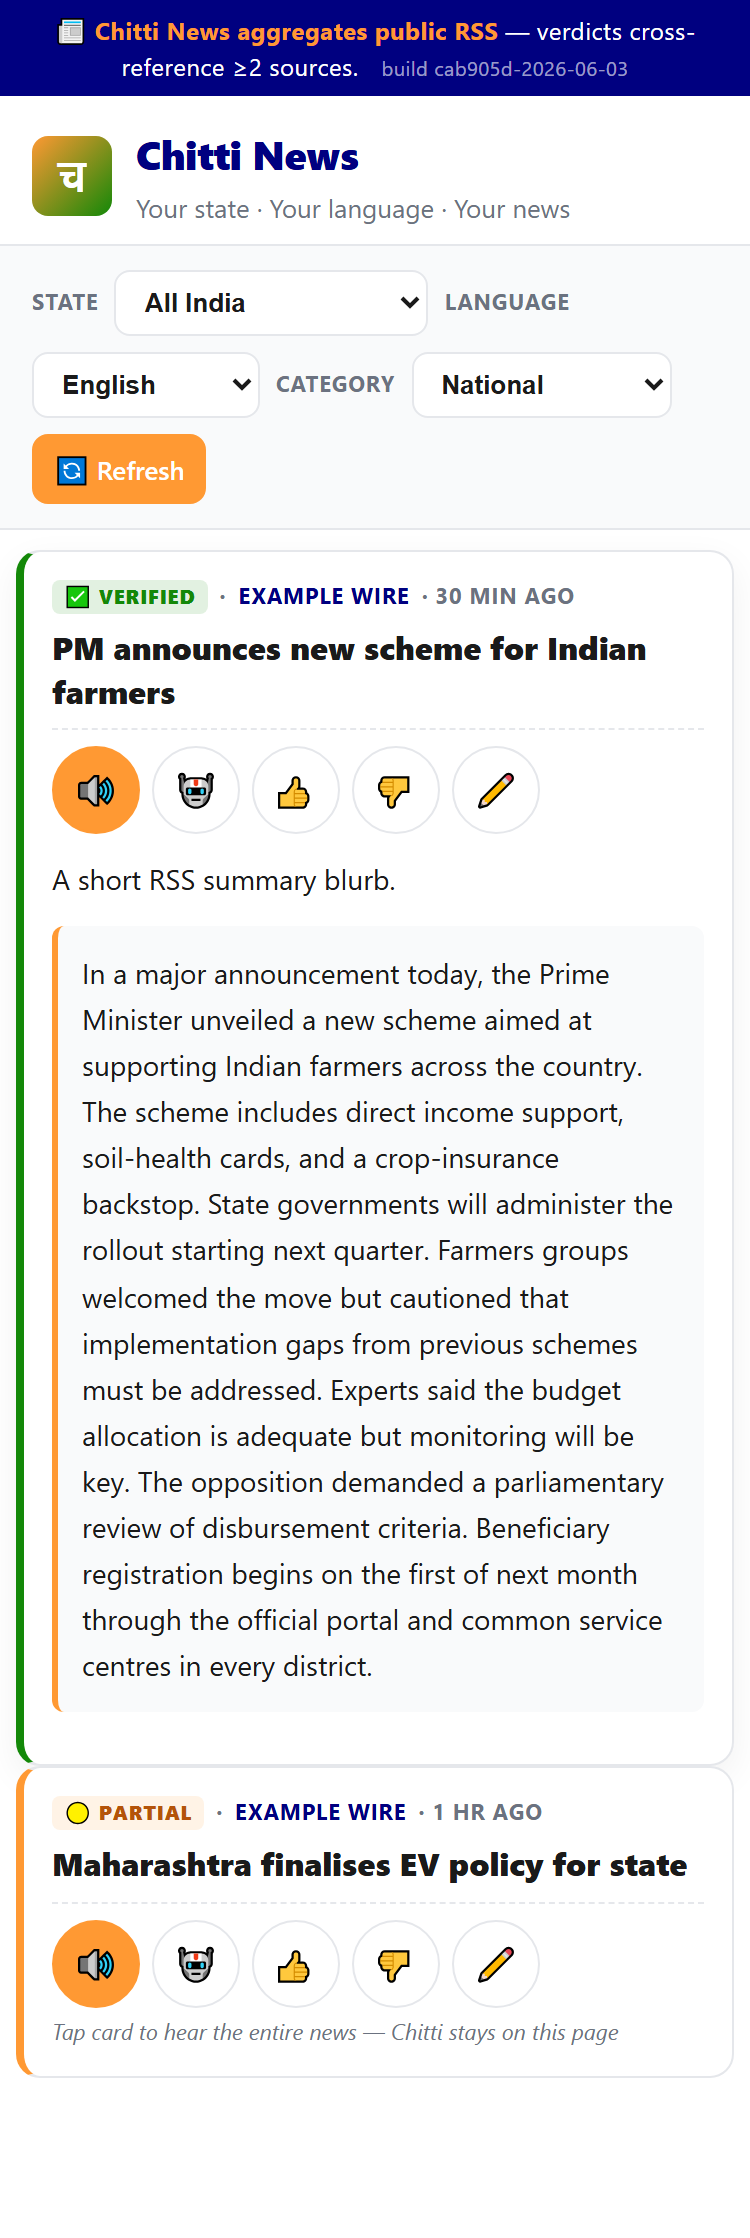
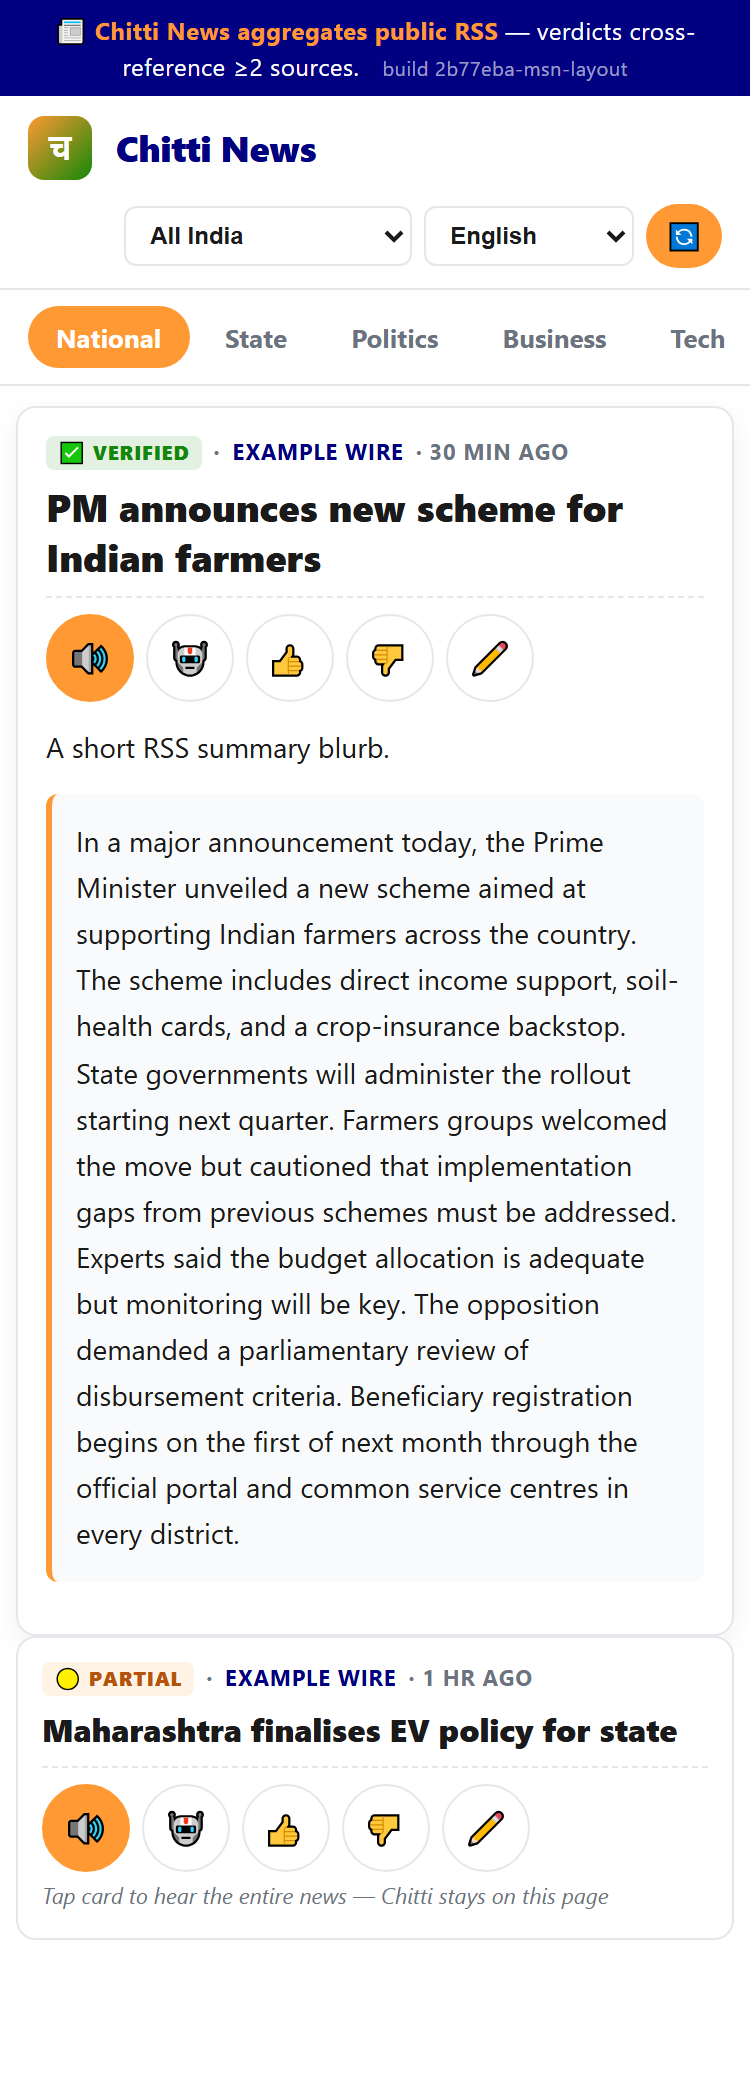
refactor(chitti-news): MSN-style layout — featured hero + tab strip + compact cards
Sire 2026-06-03: "use the structure of msn news for overall Chitti
news, dont make me repeat".

Layout changes:

(1) Sticky header collapsed to one line — brand mark + "Chitti News"
    + state/lang dropdowns + refresh button. Filter row removed; the
    two dropdowns moved inline into the header so vertical space
    above the feed is minimal (same as MSN's compact locale picker).

(2) Horizontal scrollable category tab strip below the header. Replaces
    the 10-option category <select> with one-tap pill tabs (National,
    State, Politics, Business, Tech, Sports, Entertainment, For You,
    Read Later, Cancelled). Active tab fills with saffron; inactives
    are flat text. Tabs are stickied below the header so they stay
    visible while scrolling the feed.
    The <select id="pick-cat"> is kept hidden — it remains the canonical
    state for the picker layer (so onFilterChange + LANG_SWITCH_FIRES
    cert gate + localStorage path all work unchanged). Tab clicks
    mutate sel.value + dispatch a 'change' event, going through the
    same capture-phase listener that fixed the language-switch bug.

(3) Featured first card (MSN hero):
    .art-card.featured uses single-column grid, full-width image at
    top (200px tall), bigger headline (19px), then meta + strip + body.
    .renderFeed now passes (item, i === 0) so the first item renders
    as featured.

(4) Compact regular cards:
    Removed the saffron left-border accent. Smaller padding (12px),
[…]

diff --git a/chitti_news.html b/chitti_news.html
@@ -15,7 +15,7 @@
   <meta http-equiv="Cache-Control" content="no-store, no-cache, must-revalidate" />
   <meta http-equiv="Pragma" content="no-cache" />
   <meta http-equiv="Expires" content="0" />
-  <meta name="chitti-build" content="cab905d-2026-06-03" />
+  <meta name="chitti-build" content="2b77eba-msn-layout" />
 
   <!--
     Clean rebuild 2026-06-02 per Sire's instruction "follow CTO.md,
@@ -75,60 +75,88 @@
     }
     .legal-bar strong { color: var(--saffron); }
 
-    /* ── Header ──────────────────────────────────────────────────── */
-    header { padding: 14px 16px 8px; border-bottom: 1px solid var(--rule); background: var(--canvas); }
-    .brand-row { display: flex; align-items: center; gap: 12px; flex-wrap: wrap; }
+    /* ── Header (slim, MSN-style) ────────────────────────────────── */
+    header {
+      padding: 10px 14px; border-bottom: 1px solid var(--rule);
+      background: var(--canvas); display: flex; align-items: center;
+      gap: 12px; flex-wrap: wrap;
+      position: sticky; top: 28px; z-index: 110;
+    }
     .brand-mark {
-      width: 40px; height: 40px; border-radius: 8px;
+      width: 32px; height: 32px; border-radius: 8px;
       background: linear-gradient(135deg, var(--saffron), var(--green));
-      color: #fff; font-weight: 800; font-size: 20px;
+      color: #fff; font-weight: 800; font-size: 16px;
       display: flex; align-items: center; justify-content: center;
+      flex-shrink: 0;
     }
-    .brand-name { font-weight: 800; font-size: 20px; color: var(--navy); letter-spacing: -.01em; }
-    .brand-tag  { color: var(--muted); font-size: 13px; margin-top: 2px; }
-
-    /* ── §5 ONE language selector + state/category filters ──────── */
-    .filter-row {
-      display: flex; gap: 8px; flex-wrap: wrap; align-items: center;
-      padding: 12px 16px; border-bottom: 1px solid var(--rule);
-      background: var(--surface);
-      position: sticky; top: 28px; z-index: 100;
-    }
-    .filter-row label {
-      font-size: 11px; color: var(--muted); font-weight: 700;
-      text-transform: uppercase; letter-spacing: .04em;
-    }
-    .filter-row select, .filter-row button {
-      padding: 7px 10px; border: 1px solid var(--rule); border-radius: 8px;
+    .brand-name { font-weight: 800; font-size: 18px; color: var(--navy); letter-spacing: -.01em; }
+    header .filter-mini { display: flex; gap: 6px; margin-left: auto; align-items: center; }
+    header .filter-mini select {
+      padding: 6px 8px; border: 1px solid var(--rule); border-radius: 6px;
       background: var(--canvas); color: var(--text); font-weight: 600;
+      cursor: pointer; font-size: 12px;
+    }
+    header .refresh-btn {
+      padding: 6px 10px; border-radius: 999px; border: 0;
+      background: var(--saffron); color: #fff; font-weight: 700;
       cursor: pointer; font-size: 13px;
     }
-    .filter-row .refresh-btn {
-      background: var(--saffron); color: #fff; border-color: var(--saffron);
+    header .refresh-btn:hover { filter: brightness(.95); }
+
+    /* ── MSN-style sticky category tab strip ───────────────────── */
+    .cat-tabs {
+      position: sticky; top: 80px; z-index: 100;
+      background: var(--canvas); border-bottom: 1px solid var(--rule);
+      padding: 8px 14px;
+      display: flex; gap: 4px; overflow-x: auto; scrollbar-width: thin;
+      -webkit-overflow-scrolling: touch;
     }
-    .filter-row .refresh-btn:hover { filter: brightness(.95); }
+    .cat-tabs::-webkit-scrollbar { height: 4px; }
+    .cat-tabs::-webkit-scrollbar-thumb { background: var(--rule); border-radius: 2px; }
+    .cat-tab {
+      padding: 6px 14px; border: 0; border-radius: 999px;
+      background: transparent; color: var(--muted); font-size: 13px;
+      font-weight: 700; cursor: pointer; white-space: nowrap;
+      transition: background .15s, color .15s;
+    }
+    .cat-tab:hover { color: var(--navy); }
+    .cat-tab.active { background: var(--saffron); color: #fff; }
 
     /* ── Main feed ───────────────────────────────────────────────── */
     main {
       max-width: 720px; margin: 0 auto;
-      padding: 16px 12px 80px;
-      display: flex; flex-direction: column; gap: 14px;
+      padding: 14px 12px 80px;
+      display: flex; flex-direction: column; gap: 12px;
     }
     .status-card {
-      padding: 16px; border: 1px solid var(--rule); border-radius: 12px;
-      background: var(--surface); color: var(--text); text-align: center;
+      padding: 20px 16px; border: 1px solid var(--rule); border-radius: 12px;
+      background: var(--canvas); color: var(--text); text-align: left;
     }
 
-    /* ── Article card — collapsed by default ────────────────────── */
+    /* ── Article card (compact / MSN-style) ───────────────────── */
     .art-card {
       background: var(--canvas);
-      border: 1px solid var(--rule); border-left: 4px solid var(--saffron);
-      border-radius: 12px; padding: 14px;
-      display: grid; grid-template-columns: 1fr 90px; gap: 12px;
-      cursor: pointer; transition: box-shadow .2s, border-color .2s;
+      border: 1px solid var(--rule);
+      border-radius: 10px; padding: 12px;
+      display: grid; grid-template-columns: 1fr 96px; gap: 12px;
+      cursor: pointer; transition: box-shadow .2s;
     }
-    .art-card:hover { box-shadow: 0 6px 18px rgba(0,0,0,.06); }
-    .art-card.expanded { cursor: default; border-left-color: var(--green); }
+    .art-card:hover { box-shadow: 0 4px 14px rgba(0,0,0,.06); }
+    .art-card.expanded { cursor: default; }
+
+    /* ── Article card — FEATURED (first card, MSN hero) ───────── */
+    .art-card.featured {
+      grid-template-columns: 1fr; padding: 0;
+      border: 1px solid var(--rule); overflow: hidden;
+    }
+    .art-card.featured .art-thumb {
+      width: 100%; min-height: 200px; border: 0; border-radius: 0;
+      grid-column: 1 / -1; order: -1; margin: 0;
+    }
+    .art-card.featured .art-thumb.placeholder { min-height: 160px; }
+    .art-card.featured > div { padding: 14px; }
+    .art-card.featured .art-title { font-size: 19px; line-height: 1.3; }
+    .art-card.featured .art-meta { font-size: 11px; }
     .art-meta {
       font-size: 11px; color: var(--muted); font-weight: 700;
       text-transform: uppercase; letter-spacing: .04em;
@@ -277,66 +305,69 @@
 </script>
 
 <header>
-  <div class="brand-row">
-    <div class="brand-mark" aria-hidden="true">च</div>
-    <div style="flex:1; min-width: 140px;">
-      <div class="brand-name">Chitti News</div>
-      <div class="brand-tag" id="brand-tag">Your state · Your language · Your news</div>
-    </div>
+  <div class="brand-mark" aria-hidden="true">च</div>
+  <div class="brand-name">Chitti News</div>
+  <div class="filter-mini" role="group" aria-label="State and language">
+    <select id="pick-state" data-chitti-news-picker aria-label="State">
+      <option value="india">All India</option>
+      <option value="ap">Andhra Pradesh</option><option value="as">Assam</option>
+      <option value="br">Bihar</option><option value="cg">Chhattisgarh</option>
+      <option value="gj">Gujarat</option><option value="hr">Haryana</option>
+      <option value="hp">Himachal Pradesh</option><option value="jk">Jammu &amp; Kashmir</option>
+      <option value="ka">Karnataka</option><option value="kl">Kerala</option>
+      <option value="mp">Madhya Pradesh</option><option value="mh">Maharashtra</option>
+      <option value="mn">Manipur</option><option value="mg">Meghalaya</option>
+      <option value="ng">Nagaland</option><option value="or">Odisha</option>
+      <option value="pb">Punjab</option><option value="rj">Rajasthan</option>
+      <option value="tn">Tamil Nadu</option><option value="telangana">Telangana</option>
+      <option value="up">Uttar Pradesh</option><option value="wb">West Bengal</option>
+      <option value="northeast">Northeast</option>
+    </select>
+    <select id="pick-lang" data-chitti-news-picker aria-label="Language">
+      <option value="en">English</option>
+      <option value="hi">हिन्दी</option>
+      <option value="mr">मराठी</option>
+      <option value="ta">தமிழ்</option>
+      <option value="te">తెలుగు</option>
+      <option value="bn">বাংলা</option>
+      <option value="kn">ಕನ್ನಡ</option>
+      <option value="ml">മലയാളം</option>
+      <option value="gu">ગુજરાતી</option>
+      <option value="pa">ਪੰਜਾਬੀ</option>
+      <option value="or">ଓଡ଼ିଆ</option>
+      <option value="ur">اردو</option>
+    </select>
+    <button class="refresh-btn" type="button" onclick="loadFeed(true)" aria-label="Refresh news feed">🔄</button>
   </div>
 </header>
 
-<!-- §5 LOCKED: ONE language selector per page, alongside state + category filters -->
-<div class="filter-row" role="group" aria-label="Filter feed by state, language and category">
-  <label for="pick-state">State</label>
-  <select id="pick-state" data-chitti-news-picker aria-label="State">
-    <option value="india">All India</option>
-    <option value="ap">Andhra Pradesh</option><option value="as">Assam</option>
-    <option value="br">Bihar</option><option value="cg">Chhattisgarh</option>
-    <option value="gj">Gujarat</option><option value="hr">Haryana</option>
-    <option value="hp">Himachal Pradesh</option><option value="jk">Jammu &amp; Kashmir</option>
-    <option value="ka">Karnataka</option><option value="kl">Kerala</option>
-    <option value="mp">Madhya Pradesh</option><option value="mh">Maharashtra</option>
-    <option value="mn">Manipur</option><option value="mg">Meghalaya</option>
-    <option value="ng">Nagaland</option><option value="or">Odisha</option>
-    <option value="pb">Punjab</option><option value="rj">Rajasthan</option>
-    <option value="tn">Tamil Nadu</option><option value="telangana">Telangana</option>
-    <option value="up">Uttar Pradesh</option><option value="wb">West Bengal</option>
-    <option value="northeast">Northeast (cross)</option>
-  </select>
-
-  <label for="pick-lang">Language</label>
-  <select id="pick-lang" data-chitti-news-picker aria-label="Language">
-    <option value="en">English</option>
-    <option value="hi">हिन्दी</option>
-    <option value="mr">मराठी</option>
-    <option value="ta">தமிழ்</option>
-    <option value="te">తెలుగు</option>
-    <option value="bn">বাংলা</option>
-    <option value="kn">ಕನ್ನಡ</option>
-    <option value="ml">മലയാളം</option>
-    <option value="gu">ગુજરાતી</option>
-    <option value="pa">ਪੰਜਾਬੀ</option>
-    <option value="or">ଓଡ଼ିଆ</option>
-    <option value="ur">اردو</option>
-  </select>
-
-  <label for="pick-cat">Category</label>
-  <select id="pick-cat" data-chitti-news-picker aria-label="Category">
-    <option value="national">National</option>
-    <option value="state">State</option>
-    <option value="politics">Politics</option>
-    <option value="business">Business</option>
-    <option value="tech">Tech</option>
-    <option value="sports">Sports</option>
-    <option value="entertainment">Entertainment</option>
-    <option value="foryou">For You</option>
-    <option value="saved">Read Later</option>
-    <option value="cancelled">Cancelled</option>
-  </select>
-
-  <button class="refresh-btn" type="button" onclick="loadFeed(true)" aria-label="Refresh news feed">🔄 Refresh</button>
-</div>
+<!-- MSN-style category tabs (horizontal scroll). The hidden <select>
+     #pick-cat backs the picker logic + the LANG_SWITCH_FIRES cert gate,
+     while the visible tab buttons are what the user actually taps. -->
+<nav class="cat-tabs" role="tablist" aria-label="News categories">
+  <button class="cat-tab" data-cat="national" role="tab" type="button">National</button>
+  <button class="cat-tab" data-cat="state" role="tab" type="button">State</button>
+  <button class="cat-tab" data-cat="politics" role="tab" type="button">Politics</button>
+  <button class="cat-tab" data-cat="business" role="tab" type="button">Business</button>
+  <button class="cat-tab" data-cat="tech" role="tab" type="button">Tech</button>
+  <button class="cat-tab" data-cat="sports" role="tab" type="button">Sports</button>
+  <button class="cat-tab" data-cat="entertainment" role="tab" type="button">Entertainment</button>
+  <button class="cat-tab" data-cat="foryou" role="tab" type="button">For You</button>
+  <button class="cat-tab" data-cat="saved" role="tab" type="button">Read Later</button>
+  <button class="cat-tab" data-cat="cancelled" role="tab" type="button">Cancelled</button>
+</nav>
+<select id="pick-cat" data-chitti-news-picker aria-label="Category (mirrored by tabs)" style="display:none">
+  <option value="national">National</option>
+  <option value="state">State</option>
+  <option value="politics">Politics</option>
+  <option value="business">Business</option>
+  <option value="tech">Tech</option>
+  <option value="sports">Sports</option>
+  <option value="entertainment">Entertainment</option>
+  <option value="foryou">For You</option>
+  <option value="saved">Read Later</option>
+  <option value="cancelled">Cancelled</option>
+</select>
 
 <main>
   <div id="feed-root" role="feed" aria-busy="false"></div>
@@ -410,6 +441,7 @@ function onFilterChange() {
   };
   setFilter(f);
   document.documentElement.lang = f.lang;
+  syncCategoryTabs(f.cat);
   if (window.Chitti && Chitti.a11y && Chitti.a11y.setLanguage) {
     try { Chitti.a11y.setLanguage(f.lang, { manual: true, source: 'news-filter' }); }
     catch (e) {}
@@ -424,7 +456,36 @@ function hydratePickers() {
   document.getElementById('pick-lang').value  = f.lang;
   document.getElementById('pick-cat').value   = f.cat;
   document.documentElement.lang = f.lang;
+  syncCategoryTabs(f.cat);
 }
+
+function syncCategoryTabs(cat) {
+  document.querySelectorAll('.cat-tab').forEach(function (b) {
+    if (b.dataset.cat === cat) {
+      b.classList.add('active');
+      b.setAttribute('aria-selected', 'true');
+    } else {
+      b.classList.remove('active');
+      b.setAttribute('aria-selected', 'false');
+    }
+  });
+}
+
+// Category tab clicks update the hidden <select> + fire onFilterChange.
+// One source of truth — the <select> remains canonical state for the
+// picker layer; tabs are presentation.
+document.addEventListener('click', function (e) {
+  const tab = e.target && e.target.closest && e.target.closest('.cat-tab');
+  if (!tab) return;
+  const cat = tab.dataset.cat;
+  if (!cat) return;
+  const sel = document.getElementById('pick-cat');
+  if (sel.value !== cat) {
+    sel.value = cat;
+    sel.dispatchEvent(new Event('change', { bubbles: true }));
+  }
+  syncCategoryTabs(cat);
+});
 
 // Sire 2026-06-03 — chitti_a11y.js substrate recognises #pick-lang as
 // a language dropdown (matches its `select#pick-lang` selector) and
@@ -505,9 +566,10 @@ function stripHtml(boxId, articleId) {
     + '</div>';
 }
 
-function articleCardHtml(a) {
+function articleCardHtml(a, featured) {
   ARTICLES[a.id] = a;
   const boxId = 'art-' + a.id;
+  const featuredCls = featured ? ' featured' : '';
   const meta = [
     a.is_breaking ? '<span class="src" style="color:var(--red)">BREAKING</span>' : '',
     fcBadge(a.factcheck),
@@ -520,7 +582,7 @@ function articleCardHtml(a) {
     : '<div class="art-thumb placeholder" aria-hidden="true">📰</div>';
 
   return ''
-    + '<article class="art-card" id="' + boxId + '" data-id="' + a.id + '"'
+    + '<article class="art-card' + featuredCls + '" id="' + boxId + '" data-id="' + a.id + '"'
     +   ' data-chitti-response data-chitti-speak-handler="speakArticle"'
     +   ' data-chitti-speak-id="' + a.id + '"'
     +   ' data-chitti-section="' + esc(a.title || 'News article') + '"'
@@ -589,7 +651,11 @@ function renderFeed(items, meta) {
     root.innerHTML = html;
     return;
   }
-  root.innerHTML = items.map(articleCardHtml).join('');
+  // MSN-style: first card gets the featured (hero) layout — full-width
+  // image + bigger headline. The rest render compact (text + thumb).
+  root.innerHTML = items.map(function (a, i) {
+    return articleCardHtml(a, i === 0);
+  }).join('');
 }
 
 function switchToCategory(cat) {
